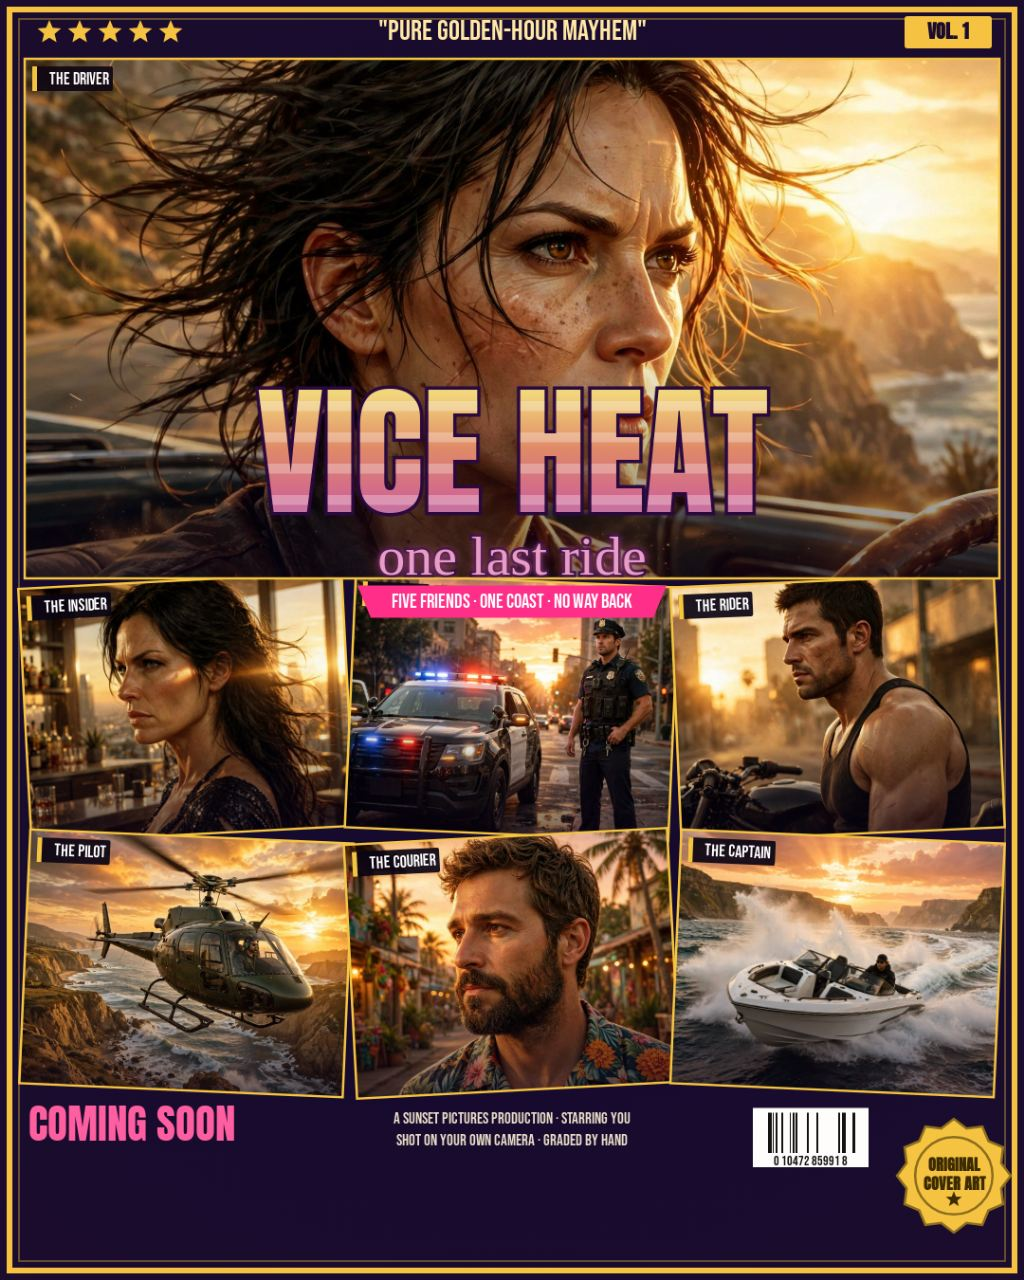
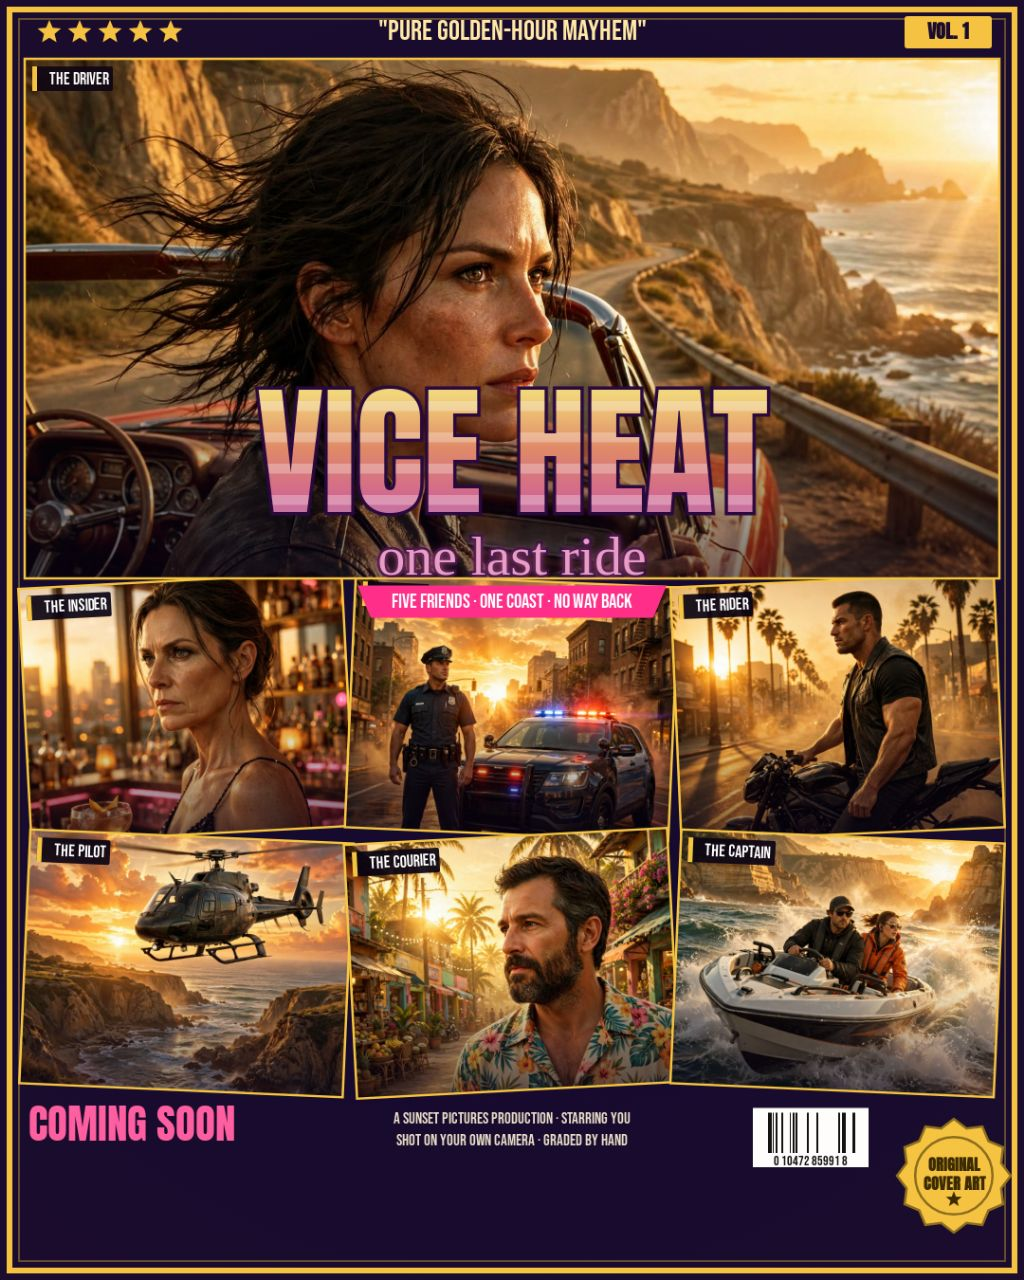
VICE HEAT rebuild #11: fresh photos from scratch, Golden Mile hero-center

diff --git a/main.ts b/main.ts
@@ -1,9 +1,10 @@
 // VICE HEAT — entrypoint (gta6-cover-art-01, Node 22, stdlib only).
 // Copies app/ and screenshots/ into /output and writes the dossier the
 // bounty scorer checks. Run: `node main.ts` from the repo root.
-// Rebuild #10: Golden Mile hero-centre layout, wide main cover shot.
+// Rebuild #11: seven photos generated fresh from scratch, Golden Mile
+// hero-centre layout, wide main cover shot.
 
-import { cpSync, existsSync, mkdirSync, readdirSync, rmSync, writeFileSync } from 'node:fs';
+import { cpSync, existsSync, mkdirSync, readdirSync, rmSync, statSync, writeFileSync } from 'node:fs';
 import { buildDossier } from './vendor/makefun-app.ts';
 
 const OUT = '/output';
@@ -33,10 +34,17 @@ function failFast(): void {
     throw new Error('screenshots/1-cover.jpg is missing: the wide hero-centre cover shot is the dossier\'s first image');
   }
   // Seven sample photos feed the seven panels; a missing one renders as
-  // an empty dark panel in every screenshot.
+  // an empty dark panel in every screenshot. Each sample must be a real
+  // JPEG — an empty file would decode as nothing and fail the same way.
   const samples = existsSync('app/samples') ? readdirSync('app/samples').filter((f) => /\.(png|jpe?g)$/i.test(f)) : [];
   if (samples.length < 7) {
     throw new Error(`app/samples/ holds only ${samples.length} photo(s): the cover needs all seven panels`);
+  }
+  for (const f of samples) {
+    const st = statSync(`app/samples/${f}`);
+    if (st.size < 10000) {
+      throw new Error(`app/samples/${f} is only ${st.size} bytes: a real sample photo is far larger`);
+    }
   }
   console.log(`samples: ${samples.sort().join(', ')}`);
   console.log(`screenshots: ${shots.sort().join(', ')}`);

diff --git a/app/src/main.js b/app/src/main.js
@@ -1,11 +1,13 @@
-// VICE HEAT — cover studio editor (rebuild #10, Golden Mile formula).
+// VICE HEAT — cover studio editor (rebuild #11, fresh photos).
 // Upload your own photos (or keep the seven golden-hour samples), edit the
 // title, tagline and captions, pick one of five colour grades, then export
 // the poster as a PNG in three sizes. Everything runs offline in the page.
 // The cover is a hero-centre game cover: one large hero close-up in the
 // middle, six panels around it at slight alternating tilts, a huge striped
 // chrome title overlapping the hero. Samples mix four character portraits
-// with three action scenes (police, helicopter, speedboat).
+// with three action scenes (police, helicopter, speedboat). Every sample
+// photo in this build was generated fresh from scratch — new faces, new
+// scenes, same seven roles.
 
 import { drawCover, GRADES, PANELS, DEFAULT_STATE, EXPORT_SIZES } from './cover.js';
 
@@ -22,7 +24,7 @@ const SAMPLE_SRC = {
   lookout: 'samples/lookout.jpg',
 };
 
-const LS_KEY = 'vice-heat-studio-v10';
+const LS_KEY = 'vice-heat-studio-v11';
 
 // The editor opens on the Wide export: the hero-centre game cover reads
 // best wide, and every fallback below points here so a future reorder of
@@ -292,7 +294,7 @@ export function shotFromQuery() {
   const shot = params.get('shot');
   if (!shot) return null;
   const map = {
-    // Rebuild #10: the main cover shot is WIDE (1280x720) — the hero-centre
+    // Rebuild #11: the main cover shot is WIDE (1280x720) — the hero-centre
     // game-cover layout reads best wide, like the top-1 reference.
     '1-cover': { sizeId: 'wide', grade: 'sunset' },
     '2-editor': null, // full editor, captured as-is

diff --git a/app/src/cover.js b/app/src/cover.js
@@ -1,4 +1,4 @@
-// VICE HEAT — poster renderer (rebuild #10, Golden Mile formula).
+// VICE HEAT — poster renderer (rebuild #11, fresh photos from scratch).
 // Draws the GTA-style multi-panel cover on a 2D canvas. Pure canvas, no
 // network, no fonts outside the app's own WOFF2 files. All layout is
 // computed from the canvas size so the same code renders 1:1, 4:5 and 16:9.
@@ -9,14 +9,13 @@
 // subtitle, a tagline ribbon, a five-star press bar, a billing block, a
 // barcode and a gold seal finish it. Panels mix four character portraits
 // (facing different directions) with three action scenes (police,
-// helicopter, speedboat) — the airplane panel was dropped, helicopter +
-// airplane together were redundant flying vehicles.
+// helicopter, speedboat). All seven photos were generated fresh from
+// scratch for this build — new faces, new scenes, same roles.
 
 export const GRADES = [
-  // Sunset is the default grade and the poster's whole tone (Sundown
-  // Racket style): a LIGHT warm touch, not a flood. The photos are
-  // already golden-hour; the grade just warms them a little. Rebuild #9
-  // toned this down — the old 0.20/0.30 wash read as cheap CGI.
+  // Sunset is the default grade and the poster's whole tone: a LIGHT warm
+  // touch, not a flood. The photos are already golden-hour; the grade
+  // just warms them a little. The old 0.20/0.30 wash read as cheap CGI.
   { id: 'sunset', name: 'Sunset', tint: '#ff7a18', alpha: 0.1, warm: 0.12 },
   { id: 'neon', name: 'Neon', tint: '#ff2e88', alpha: 0.18, warm: 0.08 },
   { id: 'gold', name: 'Gold', tint: '#ffb400', alpha: 0.12, warm: 0.14 },

diff --git a/app/index.html b/app/index.html
@@ -81,8 +81,10 @@
       script subtitle, a tagline ribbon, a five-star press bar, a billing
       block, a barcode and a gold seal. The panels mix character portraits
       with action scenes so the cover never reads as seven identical
-      headshots. Built for the make.fun gta6-cover-art-01 bounty. All artwork
-      here is original; no Rockstar logo, artwork or font is used anywhere.</p>
+      headshots. Every sample photo in this build was made fresh from
+      scratch — new faces, new scenes, same seven roles. Built for the
+      make.fun gta6-cover-art-01 bounty. All artwork here is original; no
+      Rockstar logo, artwork or font is used anywhere.</p>
     </section>
   </aside>
 </main>

diff --git a/serve.ts b/serve.ts
@@ -1,7 +1,7 @@
 // VICE HEAT — tiny static server for local development and screenshots.
 // Serves the app/ directory offline on 127.0.0.1. Run: `node serve.ts`
 // (or `node serve.ts --port 8081`). No dependencies, Node 22 stdlib only.
-// Rebuild #10: same server, kept for the Playwright screenshot runner.
+// Rebuild #11: same server, kept for the Playwright screenshot runner.
 
 import { createServer } from 'node:http';
 import { existsSync, readFileSync, statSync } from 'node:fs';

diff --git a/app/src/shots.js b/app/src/shots.js
@@ -1,4 +1,4 @@
-// VICE HEAT — screenshot definitions (rebuild #10, Golden Mile formula).
+// VICE HEAT — screenshot definitions (rebuild #11, fresh photos).
 // The four dossier screenshots: the WIDE hero-centre cover first (the main
 // image reads like a game cover), then the editor, then the two alternate
 // export sizes. The Playwright runner loads index.html with ?shot=<name>

diff --git a/app/style.css b/app/style.css
@@ -1,4 +1,4 @@
-/* VICE HEAT — Cover Studio styles (rebuild #10, Golden Mile formula).
+/* VICE HEAT — Cover Studio styles (rebuild #11, fresh photos).
    Dark editor, gold accents, the same sunset palette as the poster
    itself. Fonts are the app's own WOFF2 files (OFL: Anton, Bebas Neue,
    Pacifico) — nothing loads from a CDN. */

diff --git a/README.md b/README.md
@@ -10,10 +10,12 @@ tilts, a huge striped chrome title overlapping the hero, a pink script
 subtitle, a tagline ribbon, a five-star press bar, a billing block, a
 barcode and a gold seal. The panels mix four character portraits facing
 different directions with three action scenes (police, helicopter,
-speedboat). Upload a photo into any panel, edit the title and captions,
-pick one of five colour grades (Sunset, Neon, Gold, Teal, Noir), and
-export the poster as a PNG in three sizes — Wide 16:9 (1920×1080),
-Square 1:1 (1080×1080) and Portrait 4:5 (1080×1350).
+speedboat). Every sample photo was generated fresh from scratch for this
+build — new faces, new scenes, same seven roles. Upload a photo into any
+panel, edit the title and captions, pick one of five colour grades
+(Sunset, Neon, Gold, Teal, Noir), and export the poster as a PNG in three
+sizes — Wide 16:9 (1920×1080), Square 1:1 (1080×1080) and Portrait 4:5
+(1080×1350).
 
 ## Run it
 
